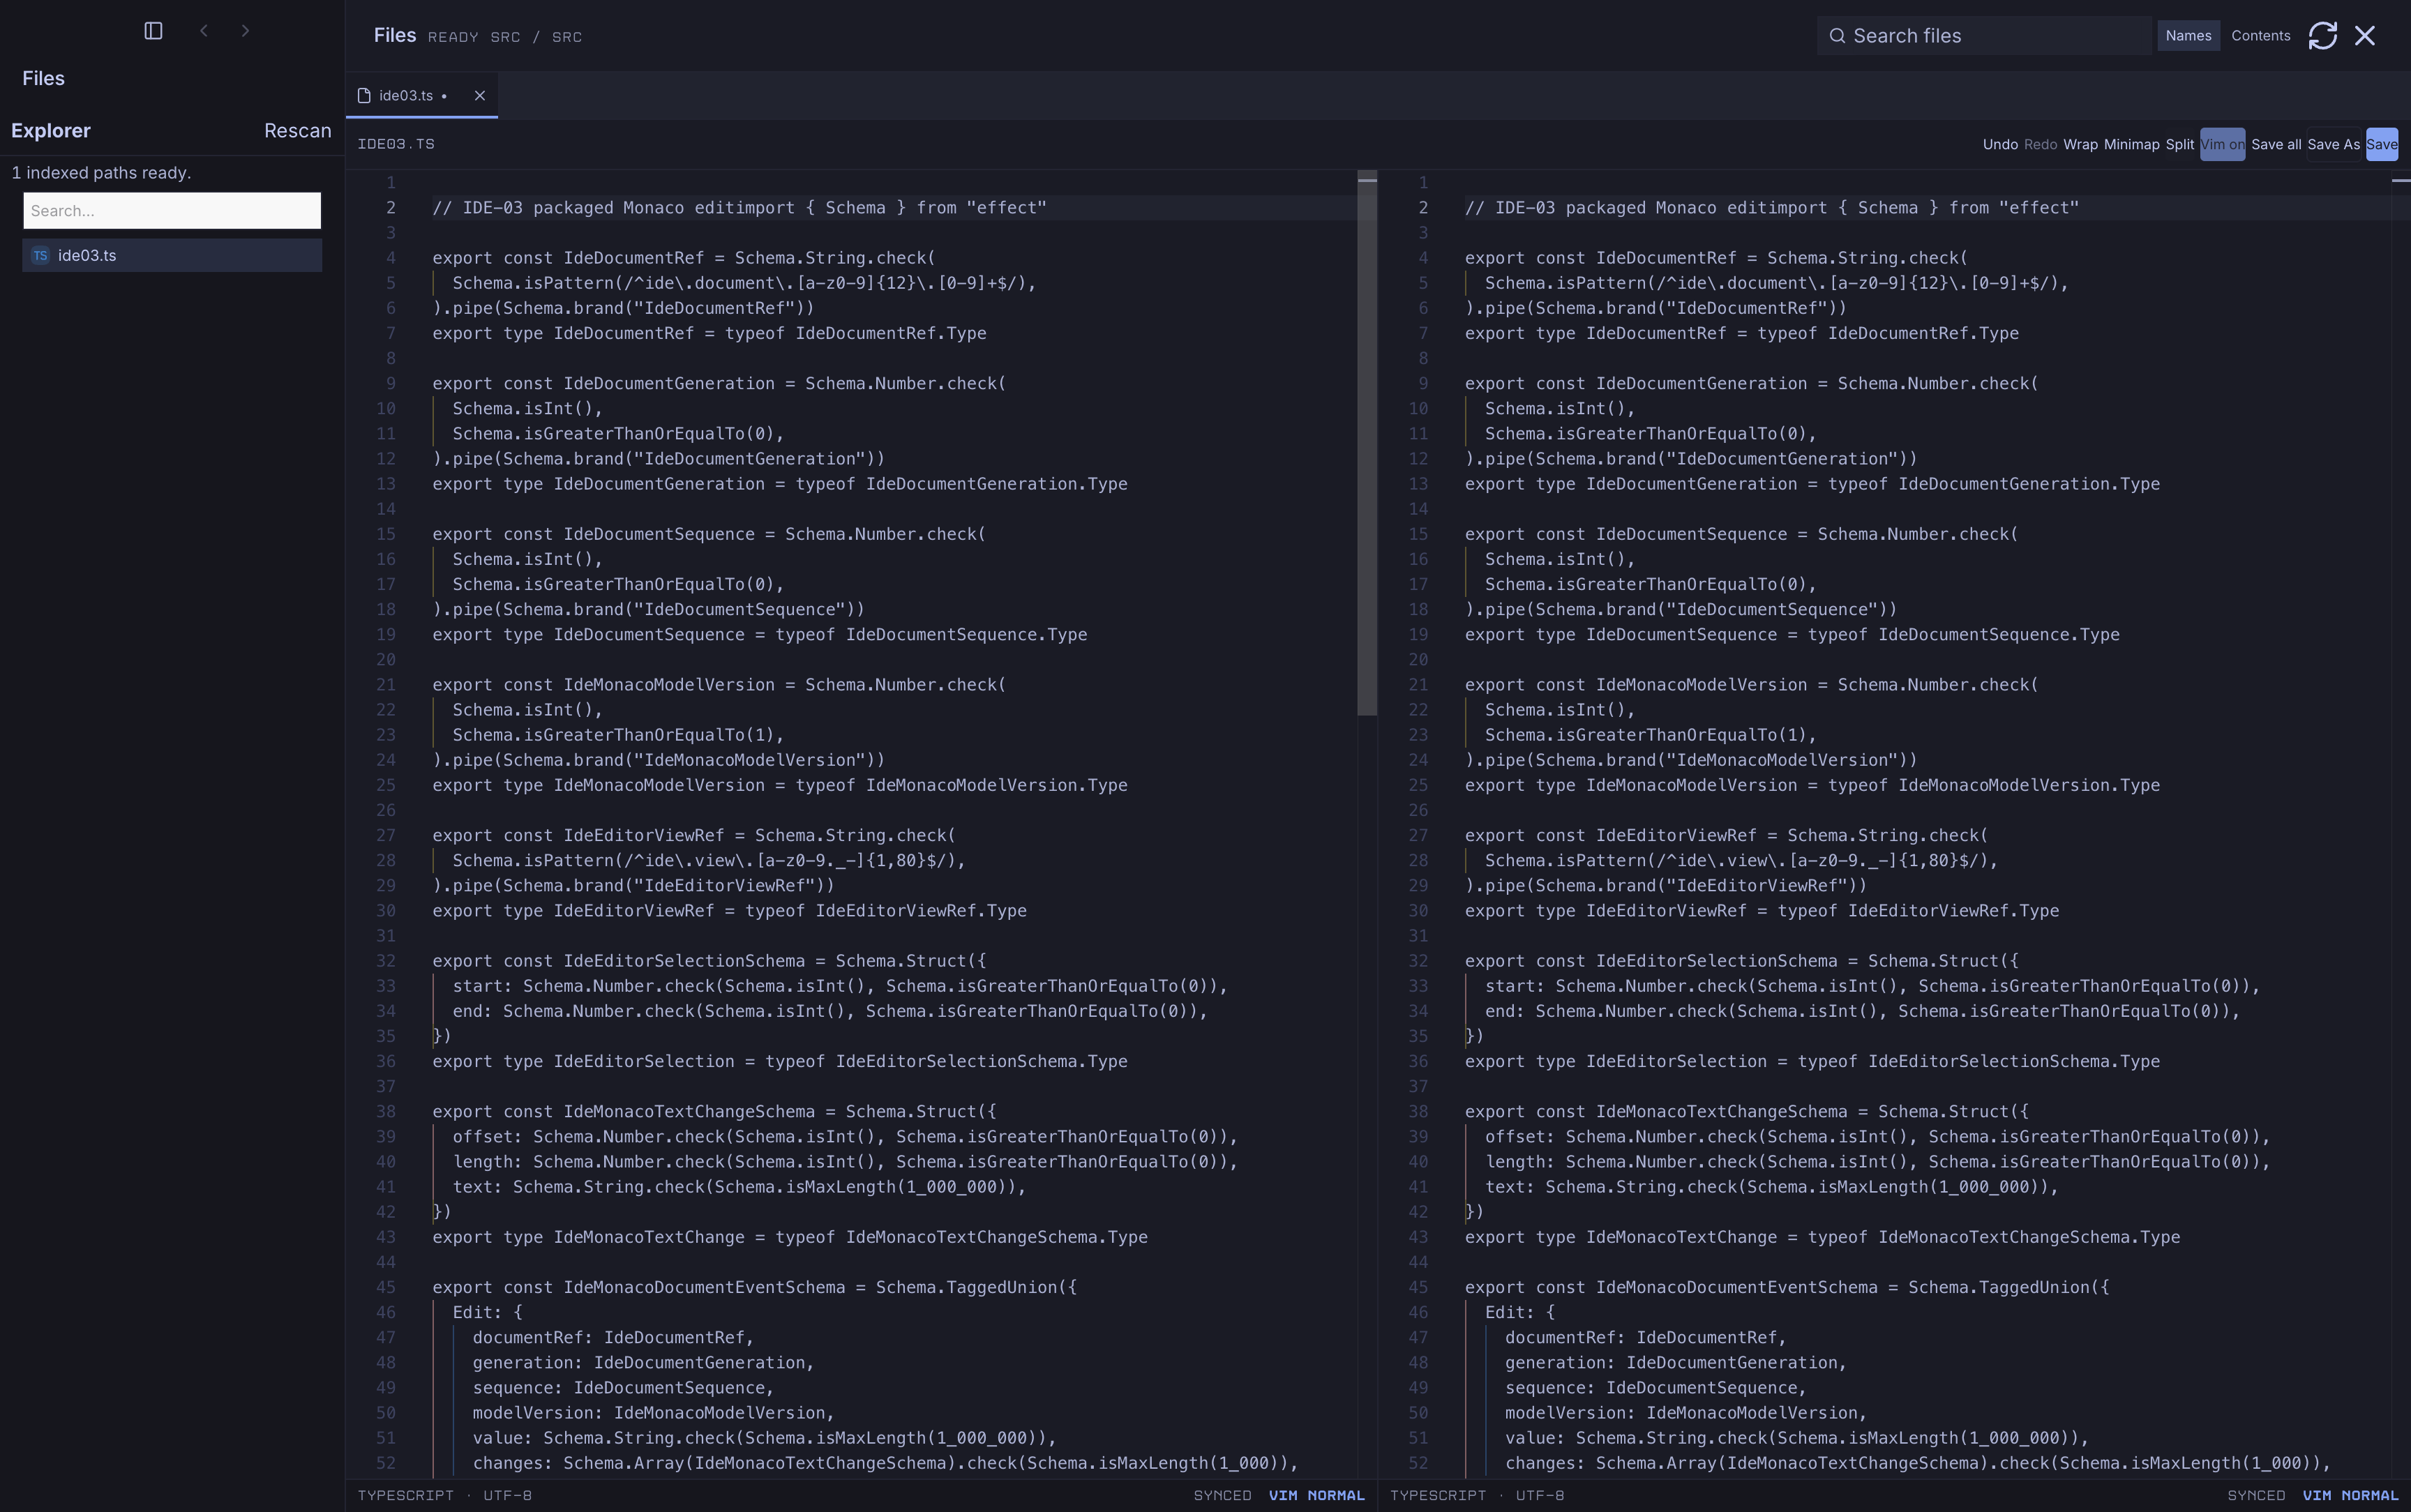
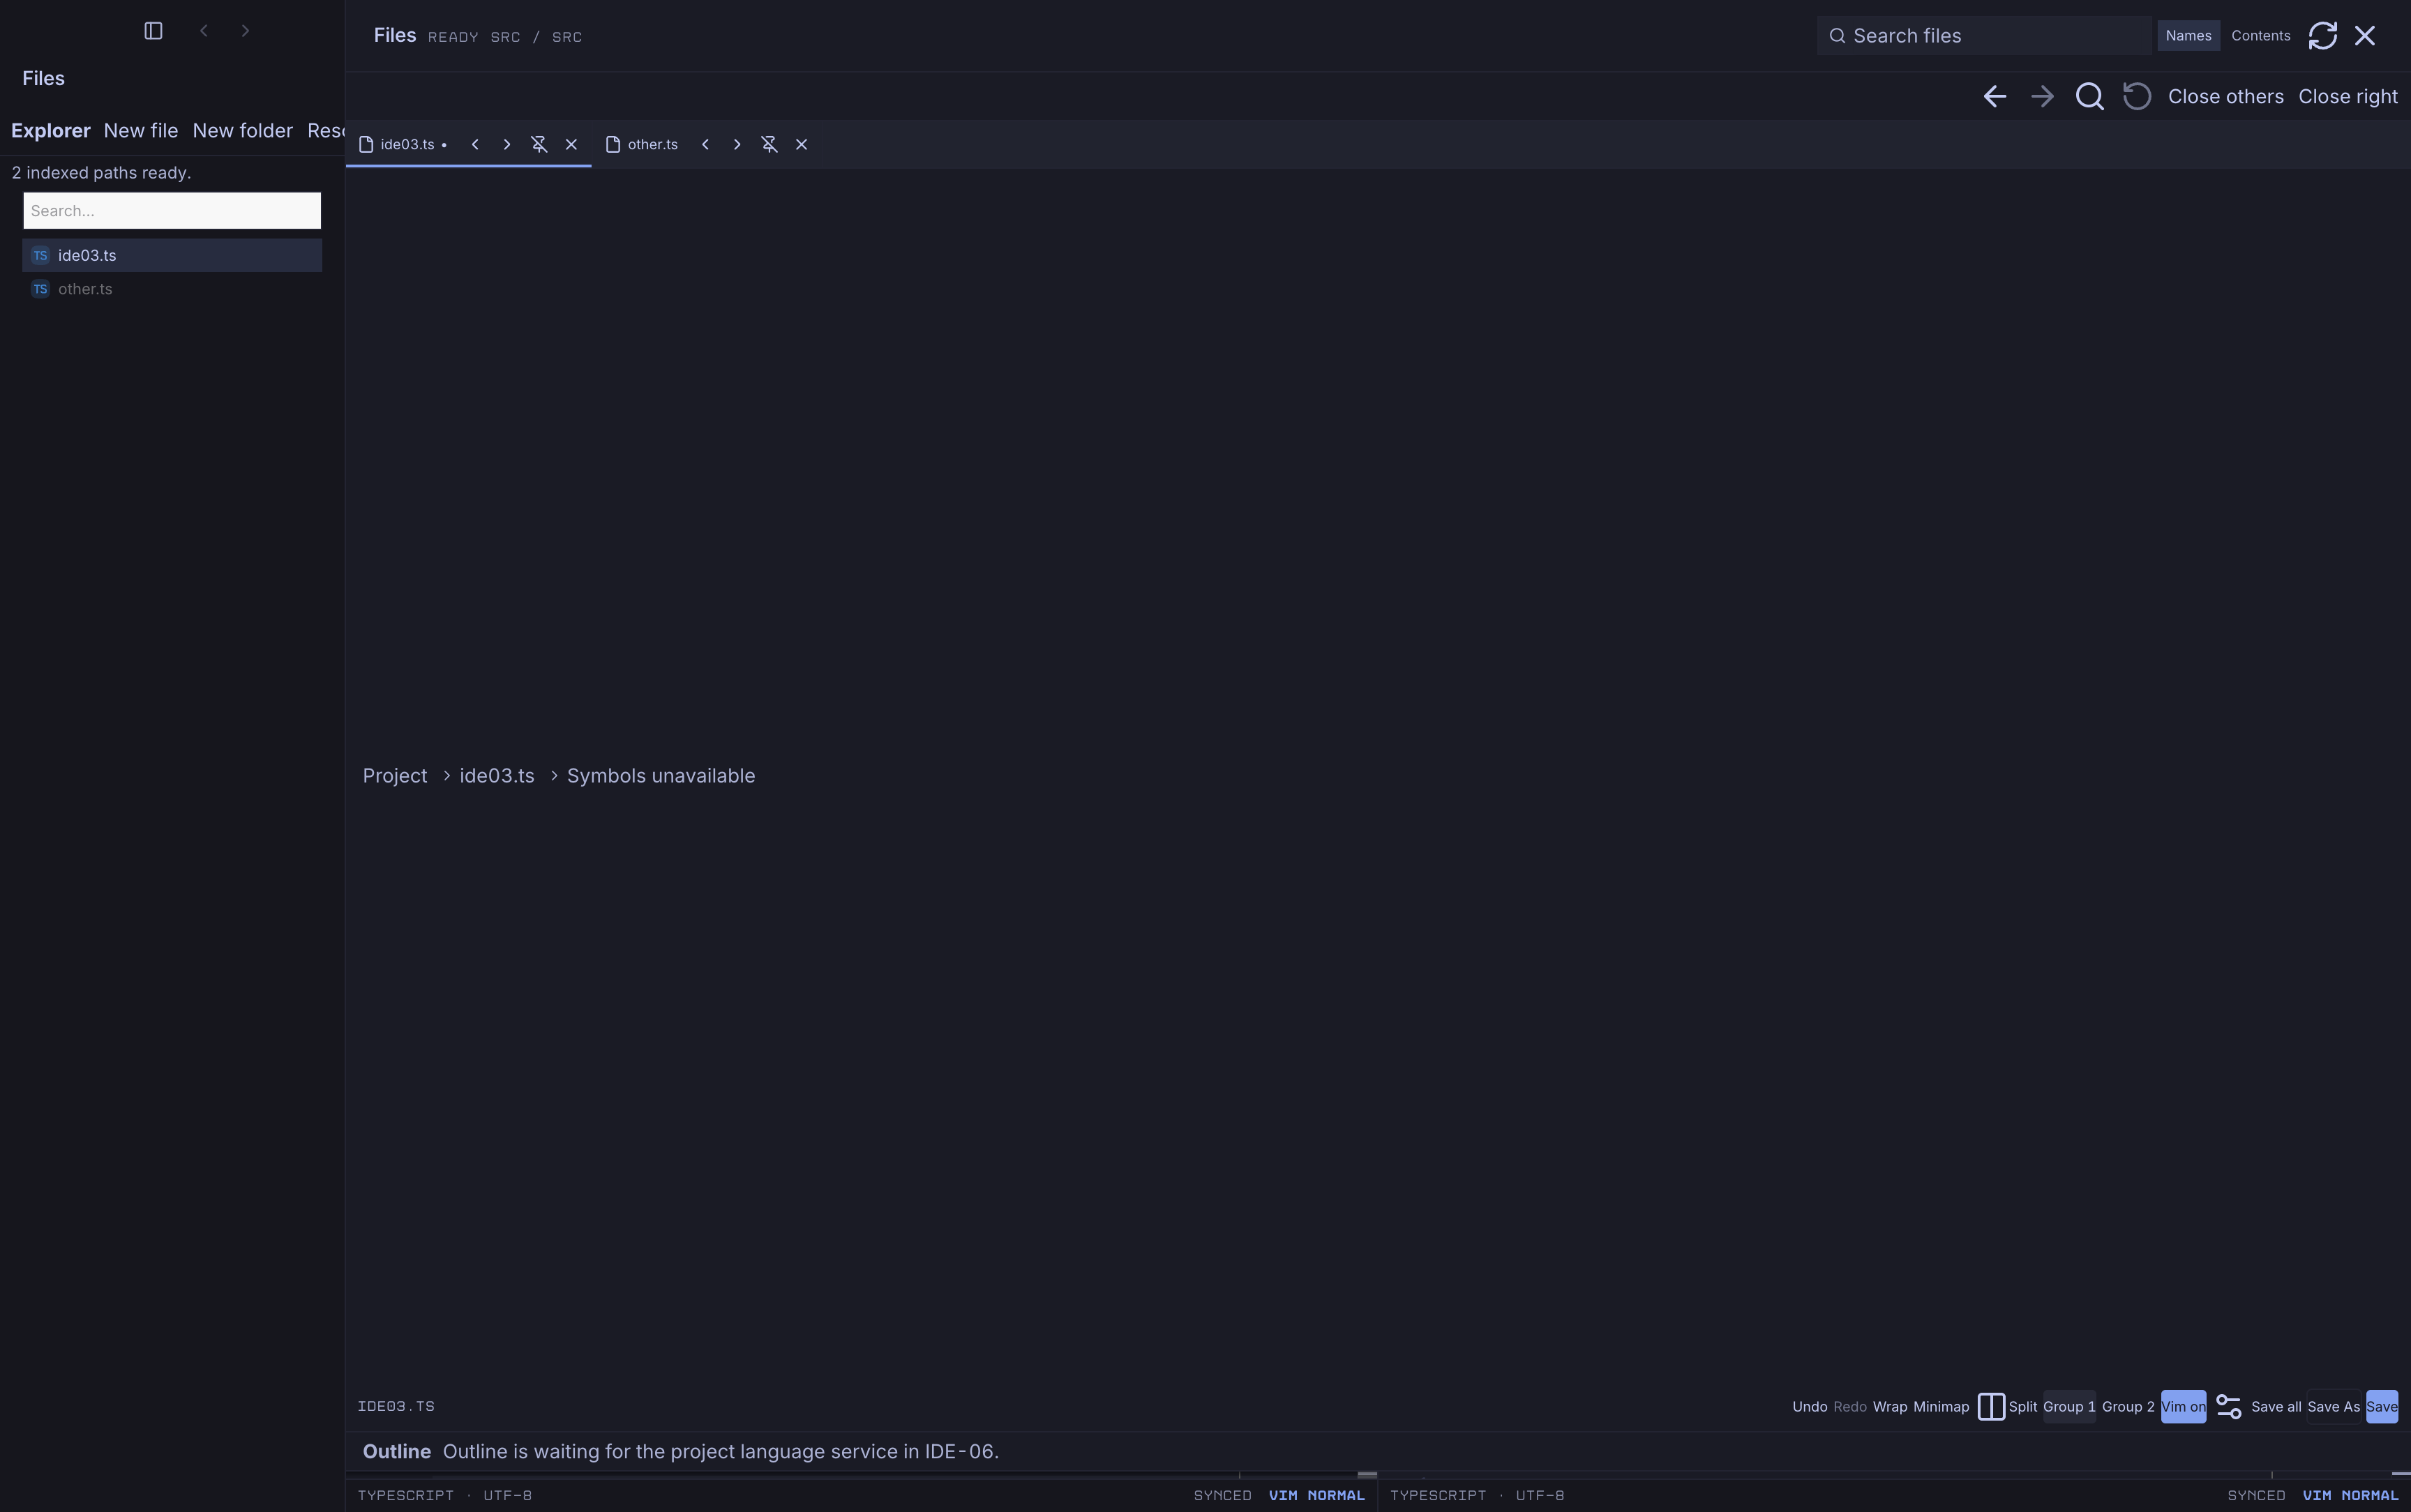
docs(ide): record IDE-04 package evidence

diff --git a/docs/ide/2026-07-19-ide-04-daily-workbench.md b/docs/ide/2026-07-19-ide-04-daily-workbench.md
@@ -164,8 +164,8 @@ The public-safe benchmark receipt is
 
 | Fixture / observation | p50 | p95 | p99 |
 | --- | ---: | ---: | ---: |
-| Quick Open, 50,000 indexed paths, 32 queries | 2.965 ms | 3.324 ms | 3.403 ms |
-| navigation push, 10,000 pushes, retained 100 | 0.148 ms | 0.170 ms | 0.288 ms |
+| Quick Open, 50,000 indexed paths, 32 queries | 2.951 ms | 3.167 ms | 3.297 ms |
+| navigation push, 10,000 pushes, retained 100 | 0.146 ms | 0.173 ms | 0.296 ms |
 
 Admission envelopes are 250 ms Quick Open p95, 2 ms navigation-push p95, and
 exactly 100 retained history entries. The benchmark stays intentionally
@@ -179,7 +179,7 @@ and zero resource teardown. It writes
 `2026-07-19-ide-04-packaged-workbench.json` beside the benchmark and updates the
 IDE-03 screenshot with the daily-workbench chrome.
 
-The packaged receipt from core commit `a21e68b39fc781ac4b16e5a5fa151c01f6f02905`
+The packaged receipt from hardened core commit `78ac9e74fe26505ef94e72ed8d8e892abf7ab996`
 records `quickOpenReady`, `previewOpened`, `previewPinned`, recovery version 4,
 two split views, and absolute-root withholding as true. The paired Monaco
 receipt records edit, Vim, recovery reload, private-scheme/offline assets, no